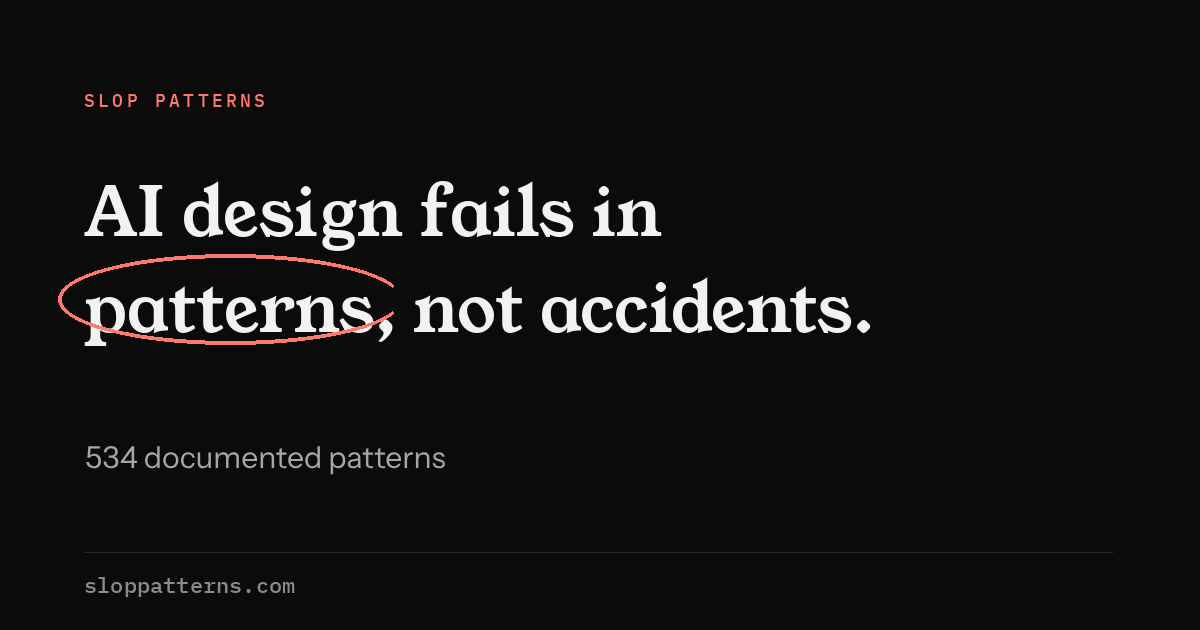
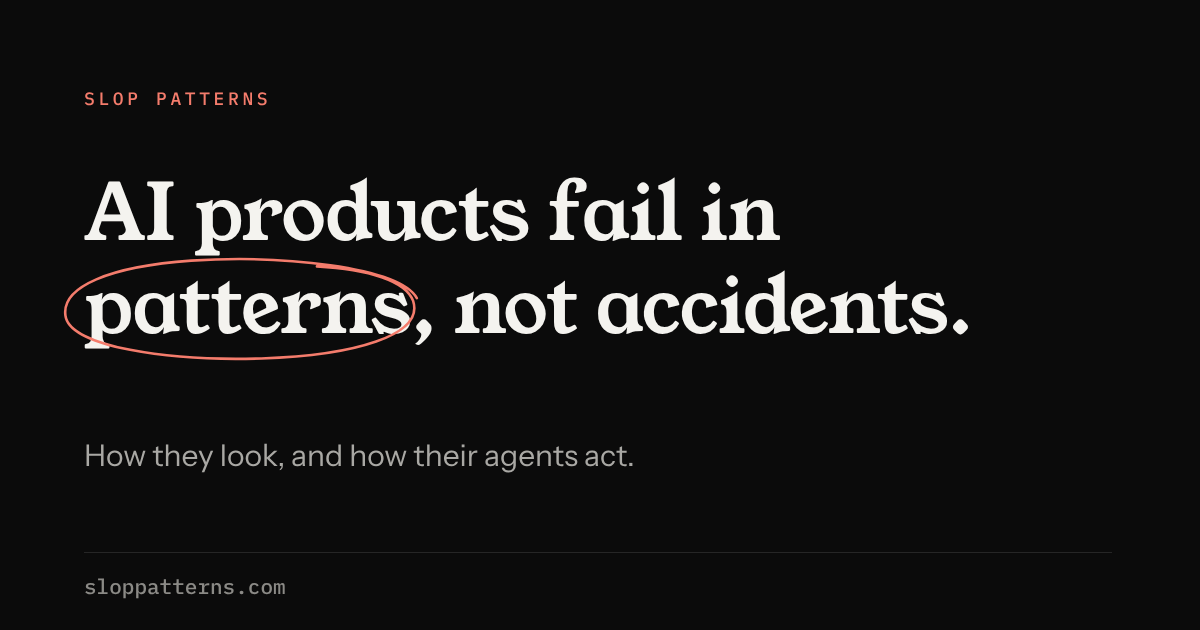
Share image and social text match the current headline (#54)
New og.png without a pattern count, so it no longer goes stale each release. Adds the image source at scripts/og.html.

Claude-Session: https://claude.ai/code/session_01MQ68La7HAfTEynhJEt2cKQ

diff --git a/index.html b/index.html
@@ -8,20 +8,20 @@
 <meta name="author" content="Pavithra Lamahewa, Precious Studio">
 <meta name="description" content="The field guide to AI tells: what AI tools actually ship, measured, why it happens, and what to do instead. A Precious Studio project.">
 <link rel="canonical" href="https://sloppatterns.com/">
-<meta property="og:title" content="Slop Patterns. AI design fails in patterns, not accidents.">
+<meta property="og:title" content="Slop Patterns. AI products fail in patterns, not accidents.">
 <meta property="og:description" content="562 documented AI design anti-patterns: what they look like, why the tools produce them, and what to do instead. Free MCP server included.">
 <meta property="og:type" content="website">
 <meta property="og:site_name" content="Slop Patterns">
 <meta property="og:url" content="https://sloppatterns.com/">
-<meta property="og:image" content="https://sloppatterns.com/og.png?v=534">
+<meta property="og:image" content="https://sloppatterns.com/og.png?v=20261123">
 <meta property="og:image:width" content="1200">
 <meta property="og:image:height" content="630">
-<meta property="og:image:alt" content="Slop Patterns. AI design fails in patterns, not accidents. 562 documented patterns. sloppatterns.com">
+<meta property="og:image:alt" content="Slop Patterns. AI products fail in patterns, not accidents. How they look, and how their agents act. sloppatterns.com">
 <meta name="twitter:card" content="summary_large_image">
-<meta name="twitter:title" content="Slop Patterns. AI design fails in patterns, not accidents.">
+<meta name="twitter:title" content="Slop Patterns. AI products fail in patterns, not accidents.">
 <meta name="twitter:description" content="562 documented AI design anti-patterns. Free MCP server, no account.">
-<meta name="twitter:image" content="https://sloppatterns.com/og.png?v=534">
-<meta name="twitter:image:alt" content="Slop Patterns. AI design fails in patterns, not accidents. 562 documented patterns. sloppatterns.com">
+<meta name="twitter:image" content="https://sloppatterns.com/og.png?v=20261123">
+<meta name="twitter:image:alt" content="Slop Patterns. AI products fail in patterns, not accidents. How they look, and how their agents act. sloppatterns.com">
 <link rel="icon" href="/icon.svg" type="image/svg+xml">
 <link rel="apple-touch-icon" href="/apple-touch-icon.png">
 <link rel="icon" href="/favicon.ico" sizes="any">

diff --git a/scripts/og.html b/scripts/og.html
@@ -1,0 +1,20 @@
+<!-- Share image source. Open at 1200 x 630 and screenshot to og.png. Bump og.png?v= in index.html after replacing it. -->
+<!doctype html><html><head><meta charset="utf-8">
+<link href="https://fonts.googleapis.com/css2?family=Instrument+Sans:wght@400;500&family=Young+Serif&family=IBM+Plex+Mono:wght@400;500&display=swap" rel="stylesheet">
+<style>
+html,body{margin:0}
+body{width:1200px;height:630px;background:#0b0b0b;color:#f4f3ef;position:relative;overflow:hidden;font-family:"Instrument Sans",sans-serif}
+.k{position:absolute;left:84px;top:90px;font:500 18px/1 "IBM Plex Mono",monospace;letter-spacing:.2em;color:#f47c6c}
+h1{position:absolute;left:84px;top:168px;margin:0;font:400 78px/1.19 "Young Serif",serif;letter-spacing:-.01em;white-space:nowrap}
+.pw{position:relative;display:inline-block}
+.pw svg{position:absolute;left:-8%;top:-10%;width:113%;height:124%;overflow:visible}
+.pw path{fill:none;stroke:#f47c6c;stroke-width:2.6;stroke-linecap:round;vector-effect:non-scaling-stroke}
+.sub{position:absolute;left:84px;top:438px;margin:0;font:400 30px/1.2 "Instrument Sans",sans-serif;color:#a9a8a4}
+.rule{position:absolute;left:84px;right:88px;top:552px;height:1px;background:#262626}
+.u{position:absolute;left:84px;top:576px;font:500 21px/1 "IBM Plex Mono",monospace;color:#8b8a86}
+</style></head><body>
+<div class="k">SLOP PATTERNS</div>
+<h1>AI products fail in<br><span class="pw">patterns<svg viewBox="0 0 100 40" preserveAspectRatio="none"><path d="M97,16 C92,5 60,1 36,3 C14,5 1,12 2,22 C3,33 30,38 55,37 C80,36 99,29 96,17 C94,10 84,6 70,5"/></svg></span>, not accidents.</h1>
+<p class="sub">How they look, and how their agents act.</p>
+<div class="rule"></div><div class="u">sloppatterns.com</div>
+</body></html>
